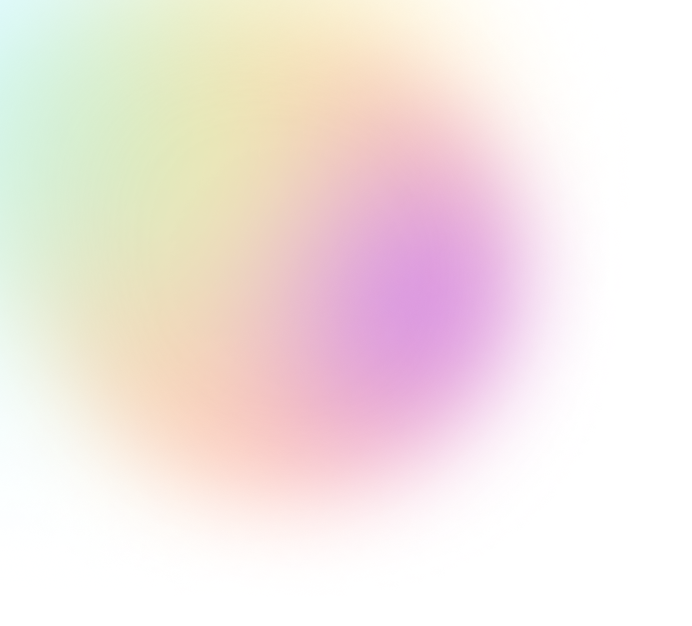
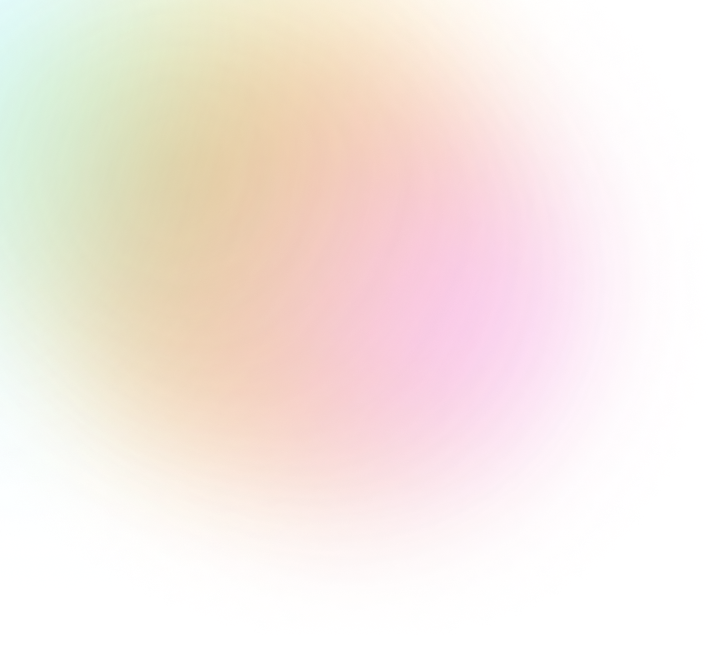
add

Changed region(s): [[0.4249, 0.2732, 0.7283, 0.7284], [0.2731, 0.2732, 0.3035, 0.3035]]

diff --git a/src/components/App/app.module.scss b/src/components/App/app.module.scss
@@ -33,10 +33,11 @@
     transform: translateX(-50%);
 
     @include desktop() {
-      width: 656px;
-      height: 653px;
-      top: 100px;
-      left: calc(50% + 40px);
+
+      height: 85vh;
+      width: auto;
+      top: 13vh;
+      left: calc(50% - 12px);
       transform: translateX(0%);
     }
 
